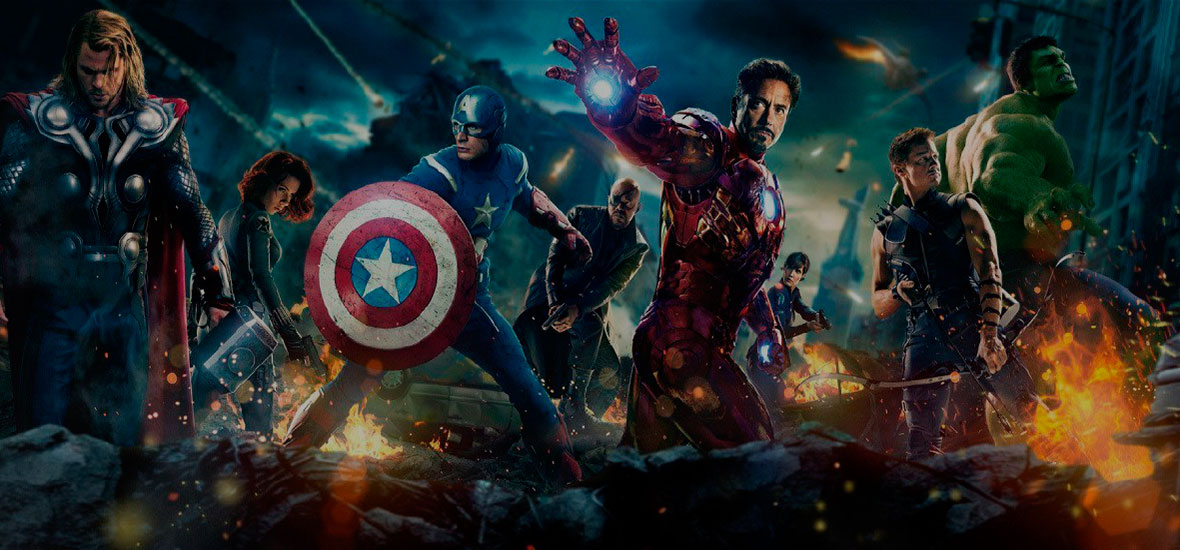
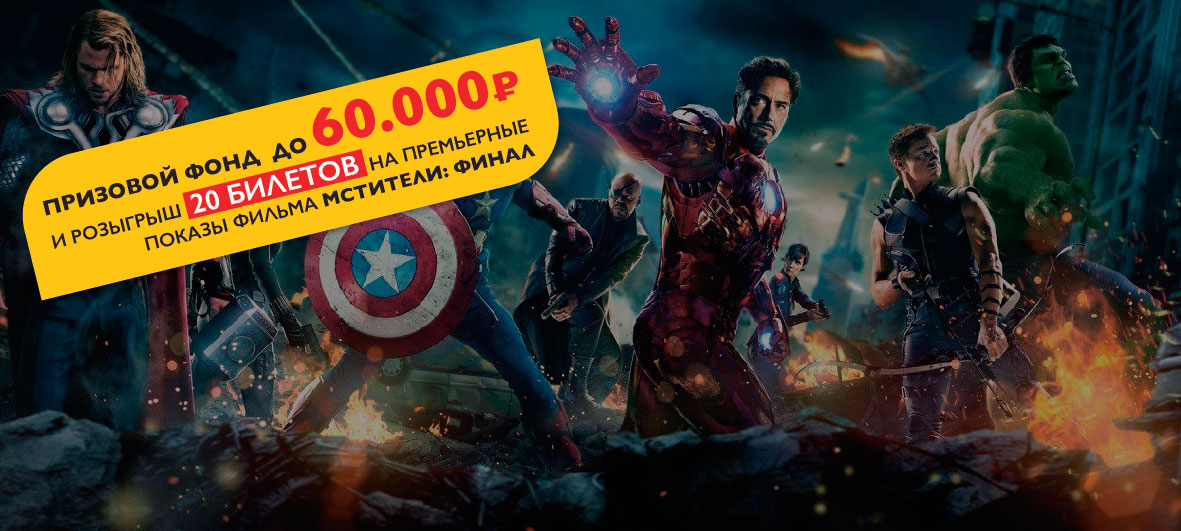
упростил проверку E-Mail в форме, убрал маску. Обновлен баннер марвел. Добавлен запрет индексации яндексом страниы с офертой

diff --git a/js/custom.js b/js/custom.js
@@ -68,14 +68,14 @@ $(document).ready(function () {
 //        mask: 'a{55}',
 //        jitMasking: true
 //    });
-    $('.email_mask').inputmask({
-        mask: "*{1,20}[.*{1,20}][.*{1,20}][.*{1,20}]@*{1,20}[.*{2,6}][.*{1,2}]",
-        greedy: false,
-        onBeforePaste: function (pastedValue, opts) {
-            pastedValue = pastedValue.toLowerCase();
-            return pastedValue.replace("mailto:", "");
-        }
-    });
+//    $('.email_mask').inputmask({
+//        mask: "*{1,20}[.*{1,20}][.-{1,20}][.*{1,20}]@*{1,20}[.*{2,6}][.*{1,2}]",
+//        greedy: false,
+//        onBeforePaste: function (pastedValue, opts) {
+//            pastedValue = pastedValue.toLowerCase();
+//            return pastedValue.replace("mailto:", "");
+//        }
+//    });
         
     //формы 
     
@@ -116,7 +116,7 @@ $(document).ready(function () {
 
     }
     function validateEmail(selector) {
-        var pattern = /^([a-z0-9_\.-])+@[a-z0-9-]+\.([a-z]{2,4}\.)?[a-z]{2,4}$/i;
+        var pattern = /.+@.+\..+/i;
         if(!pattern.test(selector.val())) {
             selector.addClass('is-invalid');
         } else
